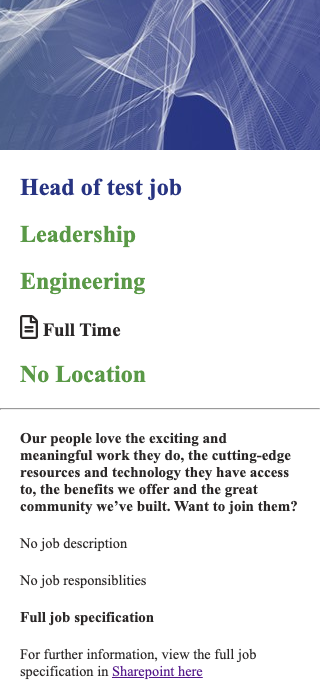
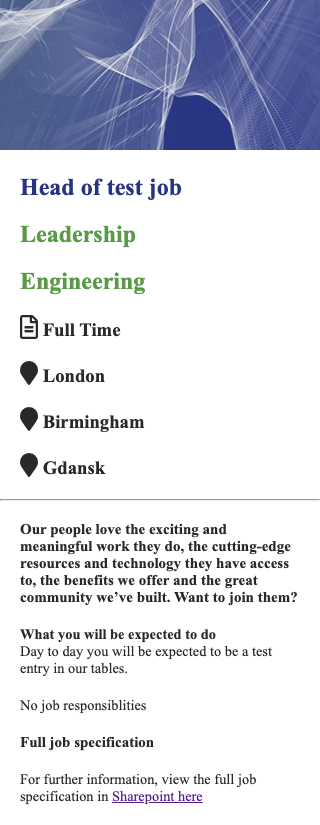
Modified with peer review feedback on making the tables widder and ran tests again

Changed region(s): [[0.0, 0.0, 1.0, 0.99], [0.0, 0.0, 0.2188, 0.12], [0.8438, 0.72, 0.9062, 0.75]]

diff --git a/app/css/mainstyle.css b/app/css/mainstyle.css
@@ -250,14 +250,15 @@ input[type=submit]:hover {
   table-layout: auto;
   font-family: Arial, Helvetica, sans-serif;
   border-collapse: collapse;
-  width:100%;
+  width:70%;
   margin:20px;
+  margin-top:10px;
   margin-left:100px;
 }
 
 #jobRolesTable  td, #jobRolesTable  th {
   border: 1px solid #ddd;
-  padding: 10px;
+  padding: 8px;
   padding-left: 20px;
   padding-right: 20px;
   vertical-align: top
@@ -381,7 +382,7 @@ input[type=submit]:hover {
 
   .jobRoles-wrap {
     width: 100%;
-    padding: 50px;
+    padding: 10px;
     background-color: #ebebeb;
     margin: 20px;
     font-size: .9em;

diff --git a/app/test-selenium/view-job-roles.test.js b/app/test-selenium/view-job-roles.test.js
@@ -39,6 +39,7 @@ describe('Checkout Deleting Function in Job Roles', function () {
 
     it('Check that "Head of test job" is no longer in the table', async function(){ 
         await driver.switchTo().alert().accept();
+        await driver.navigate().refresh();
         let innerText = await driver.findElement(By.xpath('//*[@id="jobRolesTable"]/tbody/tr[1]/td[1]/a')).getText(); 	
         assert.equal(innerText, 'Head of People Operations'); 
     });
